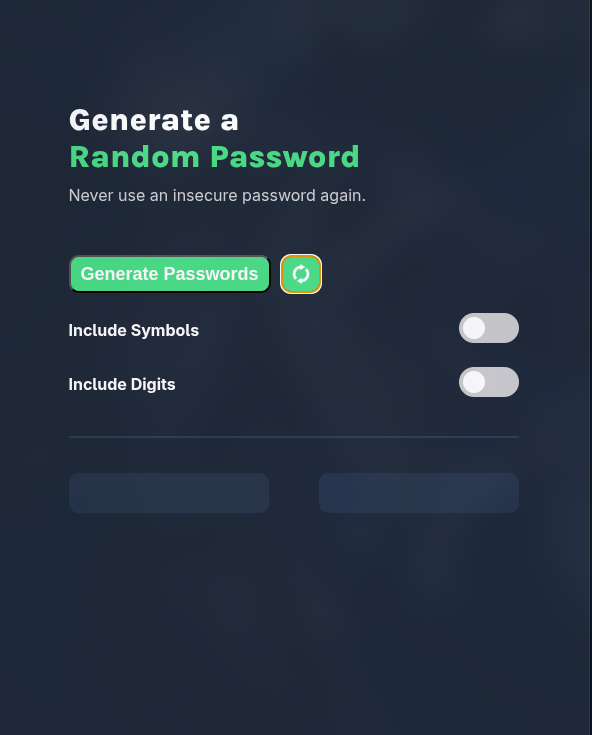
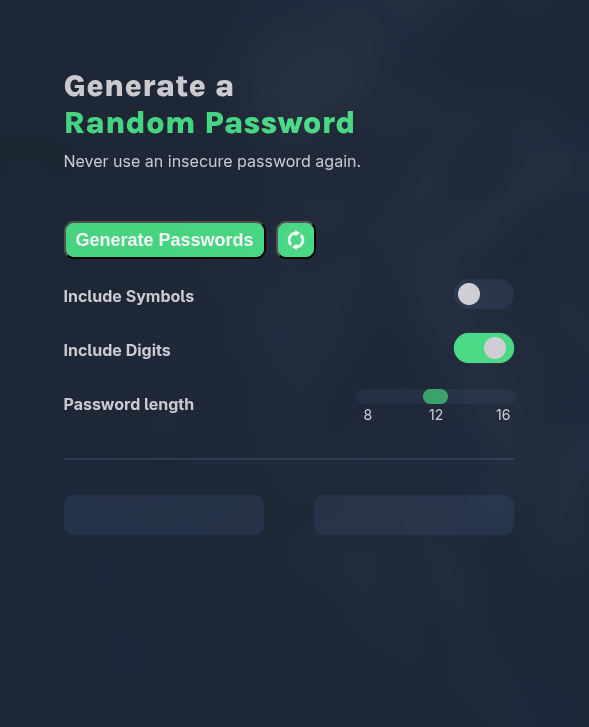
added pass length logic

diff --git a/Pass-generator/main.js b/Pass-generator/main.js
@@ -11,11 +11,12 @@ const toggleSymbols = document.querySelector("#symbols")
 const toggleNumbers = document.querySelector("#numbers")
 
 document.getElementById("generate").addEventListener("click", password);
-const box1El = document.getElementById("box1")
-const box2El = document.getElementById("box2")
+const passwordOneEl = document.getElementById("box1")
+const passwordTwoEl = document.getElementById("box2")
 
 //generate password
-
+const lengthSlider = document.querySelector("#length-slider")
+const passwordLength = [8,12,16]
 function password() {
     let pool = [...characters]
     if (toggleSymbols.checked) {
@@ -25,15 +26,19 @@ function password() {
         pool.push(...numbers);
     }
 
-    box1El.textContent = ""
-    box2El.textContent = ""
-    for (let i = 0; i < 16; i++) {
-        box1El.textContent += pool[Math.floor(Math.random() * pool.length)]
+    passwordOneEl
+.textContent = ""
+    passwordTwoEl.textContent = ""
+    const length = passwordLength[lengthSlider.value - 1]
+    for (let i = 0; i < length; i++) {
+        passwordOneEl
+    .textContent += pool[Math.floor(Math.random() * pool.length)]
     }
-    for (let i = 0; i < 16; i++) {
+    for (let i = 0; i < length; i++) {
         
-        box2El.textContent += pool[Math.floor(Math.random() * pool.length)]
+        passwordTwoEl.textContent += pool[Math.floor(Math.random() * pool.length)]
     }
+    document.getElementById("generate").disabled = true
 }
 
 //click to copy
@@ -53,6 +58,8 @@ copySpans.forEach(span => {
 
 //Reload
 document.getElementById("icon").addEventListener("click", () => {
-    box1El.textContent = "";
-    box2El.textContent = "";
+    passwordOneEl
+.textContent = "";
+    passwordTwoEl.textContent = "";
+    document.getElementById("generate").disabled = false
 });

diff --git a/Pass-generator/styles.css b/Pass-generator/styles.css
@@ -7,7 +7,7 @@ body {
     margin-top: 115px;
     margin: 115px 50px 0px 50px;
     background-color: #1F2937;
-    color: white;
+    color: #D5D4D8;
     font-family: system-ui, -apple-system, BlinkMacSystemFont, 'Segoe UI', Roboto, Oxygen, Ubuntu, Cantarell, 'Open Sans', 'Helvetica Neue', sans-serif;
     display: flex;
     justify-content: center;
@@ -34,7 +34,6 @@ h1 {
 }
 
 p {
-    color: #D5D4D8;
     margin-top: 10px;
 }
 
@@ -132,7 +131,7 @@ p {
     width: 22px;
     left: 4px;
     bottom: 4px;
-    background-color: white;
+    background-color: #D5D4D8;
     -webkit-transition: .4s;
     transition: .4s;
 }
@@ -201,19 +200,16 @@ input:checked+.slider:before {
 .slider-labels {
     display: flex;
     justify-content: space-between;
-
+    cursor: default;
     font-size: 14px;
 }
 
 /* slider labels positions*/
-#label-4 {
+#label-8 {
     padding-left: 10px;
 }
-#label-8 {
-    padding-left: 12px;
-}
 #label-12 {
-    padding-left: 12px;
+    padding-left: 14px;
 }
 #label-16 {
     padding-right: 3px;

diff --git a/Pass-generator/index.html b/Pass-generator/index.html
@@ -35,9 +35,8 @@
         <div class="container">
             <label for="pass-length" class="options">Password length</label>
             <div class="slider-container">
-                <input type="range" id="length-slider" min="1" max="4" step="1" value="1">
+                <input type="range" id="length-slider" min="1" max="3" step="1" value="2">
                 <div class="slider-labels">
-                    <span id="label-4">4</span>
                     <span id="label-8">8</span>
                     <span id="label-12">12</span>
                     <span id="label-16">16</span>
